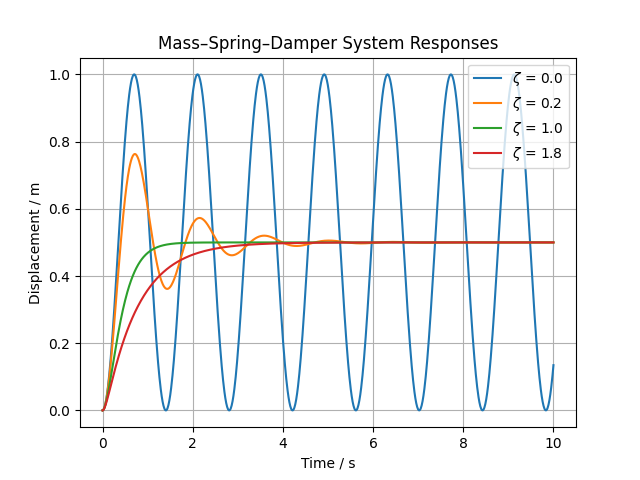
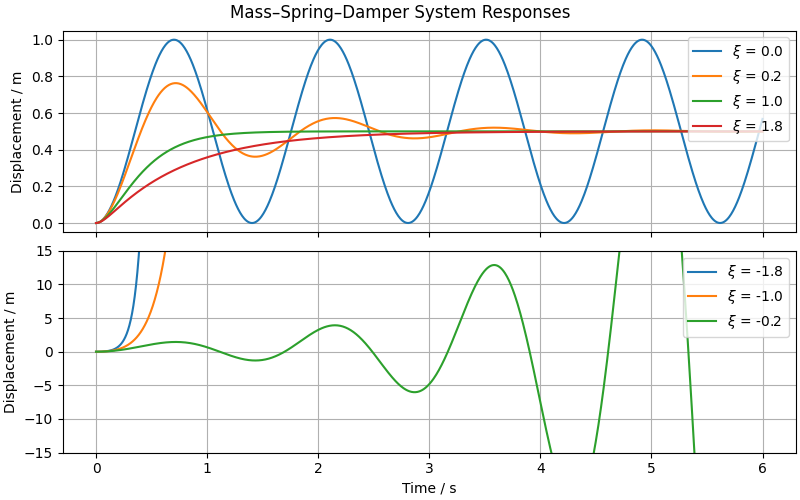
Update damping analysis to include additional damping ratios

Changed region(s): [[0.0, 0.0, 1.0, 1.0], [0.9375, 0.875, 1.0, 0.9375], [0.9375, 0.8125, 1.0, 0.8438]]

diff --git a/experiments/damping-effect-analysis/sim_scipy.py b/experiments/damping-effect-analysis/sim_scipy.py
@@ -24,11 +24,11 @@ def diff_equations(t: float, y: np.ndarray, F_ext: float, c: float):
 F_ext = 10.0  # External applied force [N]
 
 # Define damping ratios and corresponding damping coefficients
-zeta_values = np.array([0, 0.2, 1, 1.8])
+zeta_values = np.array([-1.8, -1, -0.2, 0, 0.2, 1, 1.8])
 damping_coeffs = zeta_values * 2 * np.sqrt(k * m)
 
 # Simulation time [s]
-t = np.linspace(0, 10, 1000)
+t = np.linspace(0, 6, 1000)
 
 # Pre-allocate displacement array
 displacements = np.zeros((zeta_values.size, t.size))
@@ -44,14 +44,24 @@ for i in range(zeta_values.size):
 
 
 # --- Plot results ---
-for i in range(zeta_values.size):
-    plt.plot(t, displacements[i], label=f"$\\zeta$ = {zeta_values[i]}")
+fig, axs = plt.subplots(2, 1, figsize=(8, 5), constrained_layout=True, sharex=True)
 
-plt.xlabel("Time / s")
-plt.ylabel("Displacement / m")
-plt.title("Mass–Spring–Damper System Responses")
-plt.grid(True)
-plt.legend()
+fig.suptitle("Mass–Spring–Damper System Responses")
+
+# Plot first three cases separately for clarity
+for i in range(0, 3):
+    axs[1].plot(t, displacements[i], label=f"$\\xi$ = {zeta_values[i]}")
+axs[1].set_ylim(-15, 15)
+
+for i in range(3, zeta_values.size):
+    axs[0].plot(t, displacements[i], label=f"$\\xi$ = {zeta_values[i]}")
+
+axs[-1].set_xlabel("Time / s")
+
+for ax in axs:
+    ax.set_ylabel("Displacement / m")
+    ax.grid()
+    ax.legend(loc="upper right")
 
 # Save plot to file
 script_dir = os.path.dirname(os.path.abspath(__file__))

diff --git a/experiments/damping-effect-analysis/README.md b/experiments/damping-effect-analysis/README.md
@@ -8,18 +8,20 @@ This experiment explores how the **mass–spring–damper system** behaves under
 
 ## 🧪 Methodology
 
-We simulate the mass–spring–damper system **four times**, varying the **damping coefficient** $c$ while keeping the other parameters constant.
+We simulate the mass–spring–damper system **six times**, varying the **damping coefficient** $c$ while keeping the other parameters constant.
 
-The **damping ratio** $\zeta$ is a dimensionless parameter that characterizes how the system dissipates energy:
+The **damping ratio** $\xi$ is a dimensionless parameter that characterizes how the system dissipates energy:
 
-$$\zeta = \frac{c}{2 \sqrt{k m}}$$
+$$\xi = \frac{c}{2 \sqrt{k m}}$$
 
-The four chosen damping coefficients correspond to different behaviors:
+The six chosen damping coefficients correspond to different behaviors:
 
-1. **Undamped:** $\zeta = 0$
-2. **Underdamped:** $\zeta < 1$
-3. **Critically damped:** $\zeta = 1$
-4. **Overdamped:** $\zeta > 1$
+1. **Monotonic unstable:** $\xi \le -1$
+2. **Oscillatory unstable:** $-1 < \xi < 0$
+3. **Undamped:** $\xi = 0$
+4. **Underdamped:** $0 < \xi < 1$
+5. **Critically damped:** $\xi = 1$
+6. **Overdamped:** $\xi > 1$
 
 Each case is simulated over the same time interval using a numerical solver, allowing a direct comparison of how the system response changes with the damping.
 
@@ -29,9 +31,15 @@ Each case is simulated over the same time interval using a numerical solver, all
 
 The simulation shows the system response for different damping ratios under a constant external force:
 
-- **$\zeta$ = 0**: Undamped, oscillates indefinitely around equilibrium.
-- **$\zeta$ = 0.2**: Underdamped, oscillates but gradually settles.
-- **$\zeta$ = 1**: Critically damped, returns to equilibrium fastest without oscillations.
-- **$\zeta$ = 1.8**: Overdamped, returns to equilibrium slowly without oscillations.
+- **$\xi$ = -1.8**: Monotonic unstable, the response diverges without oscillations.
+- **$\xi$ = -1**: Monotonic unstable, the response diverges without oscillations, but more slowly than for $\xi = -1.8$.
+- **$\xi$ = -0.2**: Oscillatory unstable, the system oscillates, but the amplitude grows over time.
+- **$\xi$ = 0**: Undamped, oscillates indefinitely around equilibrium.
+- **$\xi$ = 0.2**: Underdamped, oscillates but gradually settles.
+- **$\xi$ = 1**: Critically damped, returns to equilibrium fastest without oscillations.
+- **$\xi$ = 1.8**: Overdamped, returns to equilibrium slowly without oscillations.
+
+> Note: $\xi = 0$ represents an ideal undamped system, which oscillates indefinitely without losing energy.
+> Negative damping ratios ($\xi < 0$), however, are non-physical in real mass–spring–damper systems, as they would imply the system gains energy over time.
 
 These results illustrate not only how damping changes the transient response of the system, but also how the system's behavior can change **dramatically** depending on its parameters.
